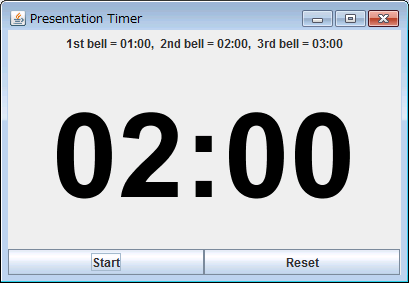
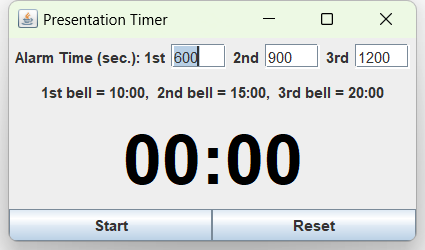
Updated screenshot

diff --git a/README.md b/README.md
@@ -25,6 +25,11 @@ Java の機能のみを使っていますので，他のプラットフォーム
 
 ## 実行方法
 
+JAR ファイルのダブルクリックで実行できます．デフォルトでは経過時間をカウントアップし，600秒，900秒，1200秒でベルが鳴る状態で起動します．
+
+### 実行のカスタマイズ
+
+コマンドライン引数によって，タイマーと色を変更することができます．
 PresentationTimer クラスが起動用クラスです．
 Windows では，付属バッチファイル timer.bat をコピーして，引数を適宜編集した上でご利用ください．
 以下はコマンドライン引数の例です．
